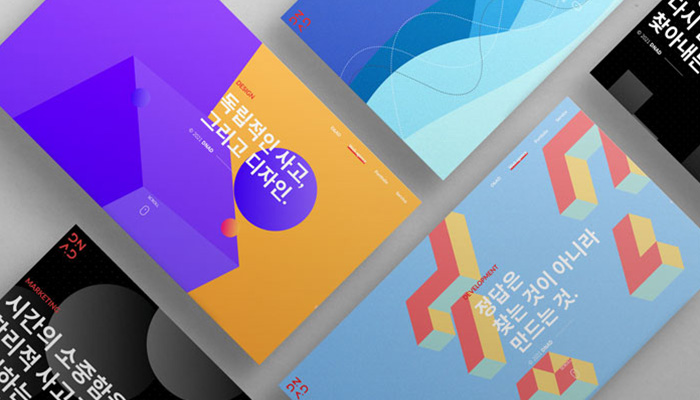
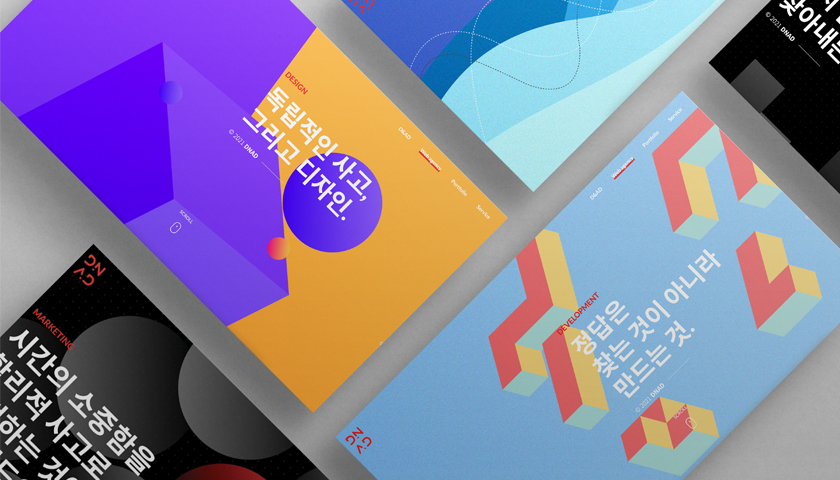
project update - img 변경 & css,js 수정

diff --git a/common/css/contents.css b/common/css/contents.css
@@ -78,12 +78,12 @@
 .project-cont .title:nth-child(3n) span:nth-child(2n){ color: #f69000; }
 .project-cont .title:nth-child(4) span:nth-child(1){ color: #f69000; }
 .project-cont.actTit span{ opacity: 1; }
-.project-list{ display: flex; flex-wrap: wrap; justify-content: space-between; padding: 0 6%; transition: all 0.1s; }
+.project-list{ display: flex; flex-wrap: wrap; justify-content: space-between; max-width: 1800px; margin: 0 auto; padding: 0 6%; transition: all 0.1s; }
 .project-item{ position: relative; width: 48%; max-width: 700px; margin-bottom: 8vw; }
 .project-item:nth-child(2n){ top: 10vw; }
 .project-item .img-box{ overflow: hidden; position: relative; z-index: 2; box-shadow: 0 10px 40px rgba(0, 0, 0, 0.1); }
 .project-item .img-box .img{ position: relative; width: 100%; padding-bottom: 57%; }
-.project-item .img-box img{ position: absolute; top: 50%; left: 50%; transform: translate(-50%, -50%); width: 120%; max-width: none; height: 120%; }
+.project-item .img-box img{ position: absolute; top: 50%; left: 50%; transform: translate(-50%, -50%); width: 110%; max-width: none; height: 110%; }
 .project-item .hover-box{ opacity: 0; position: absolute; top: 0; left: 0; z-index: -1; width: 100%; height: 100%; border-radius: 50%; transition: all 0.5s; }
 .project-item:hover .hover-box{ top: -20px; left: -20px; width: calc(100% + 40px); height: calc(100% + 40px); opacity: 1; border-radius: 0; }
 .project-item .txt-box{ display: flex; justify-content: space-between; align-items: center; margin-top: 30px; }

diff --git a/common/js/ui.js b/common/js/ui.js
@@ -368,8 +368,8 @@ $(document).ready(function () {
     var tweenProjectList = TweenMax.fromTo(
       pjImg,
       0.2,
-      { y: '10%' },
-      { y: '-10%' }
+      { y: '5%', scale: 1.05 },
+      { y: '-5%', scale: 1 }
     );
     var sceneProjectList = new ScrollMagic.Scene({
       triggerElement: pjItem[i],
